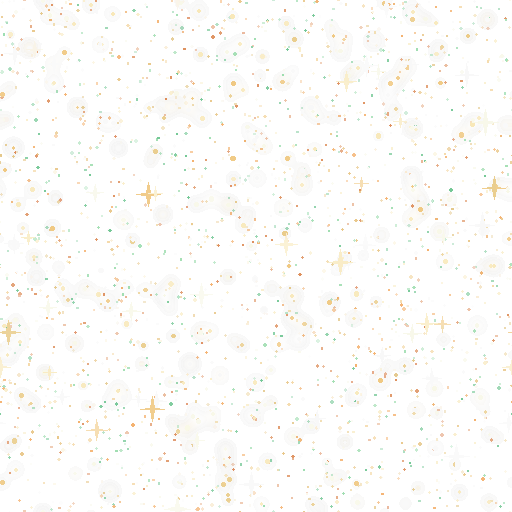
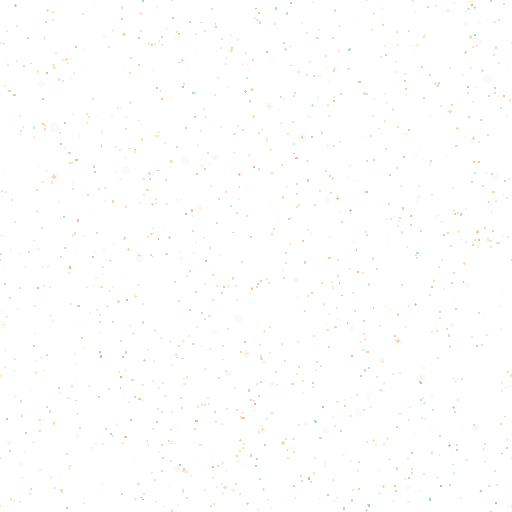
Add files via upload

diff --git a/js/app.js b/js/app.js
@@ -1,5 +1,5 @@
 // ====== Loane Pro ======
-const APP_VERSION = '3.3.0';
+const APP_VERSION = '3.4.0';
 
 const $ = sel => document.querySelector(sel);
 const view = $('#view');
@@ -36,11 +36,16 @@ $('#sheet-backdrop').addEventListener('click', closeSheet);
 
 // ====== Types de séances ======
 const KINDS = {
-  cours: { label: 'Cours', icon: '🎤', student: true, paid: true },
-  repetition: { label: 'Répétition', icon: '🎹', student: false, paid: false },
-  concert: { label: 'Concert', icon: '🎭', student: false, paid: true },
-  autre: { label: 'Autre', icon: '📌', student: false, paid: false }
+  cours: { label: 'Cours', icon: '🎤', student: true, paid: true, travail: true },
+  repetition: { label: 'Répétition', icon: '🎹', student: false, paid: false, travail: true },
+  concert: { label: 'Concert', icon: '🎭', student: false, paid: true, travail: true },
+  autre: { label: 'Autre (travail)', icon: '📌', student: false, paid: false, travail: true },
+  perso: { label: 'Perso (hors travail)', icon: '🏡', student: false, paid: false, travail: false }
 };
+const estTravail = l => (KINDS[l.kind || 'cours'] || {}).travail !== false;
+
+// Lieux possibles pour un cours
+const LIEUX = { ecole: "À l\u2019école", domicile: 'À domicile' };
 
 // ====== Réglages par défaut ======
 const DEFAULT_FORFAITS = [
@@ -280,15 +285,64 @@ function cloudBadge(etat) {
   if (etat === 'ok') setTimeout(() => { el.hidden = true; }, 2500);
 }
 
-// On enrobe les écritures de la base pour déclencher la sauvegarde
-['put', 'del', 'setSetting', 'importAll'].forEach(m => {
-  const orig = DB[m].bind(DB);
-  DB[m] = async function (...args) {
-    const r = await orig(...args);
+// ====== Annulation des 5 dernières actions ======
+const Undo = {
+  pile: [],
+  libelles: { students: 'élève', lessons: 'séance', payments: 'paiement', notes: 'note', invoices: 'document', library: 'morceau' },
+  ajouter(libelle, inverse) {
+    this.pile.push({ libelle, inverse });
+    if (this.pile.length > 5) this.pile.shift();
+    this.maj();
+  },
+  maj() {
+    const b = document.getElementById('topbar-undo');
+    if (b) { b.hidden = this.pile.length === 0; b.title = this.pile.length ? 'Annuler : ' + this.pile[this.pile.length - 1].libelle : ''; }
+  },
+  async annuler() {
+    const action = this.pile.pop();
+    if (!action) return;
+    try {
+      await action.inverse();
+      toast('Annulé : ' + action.libelle);
+    } catch (e) { toast('Annulation impossible'); }
+    this.maj();
+    Cloud.schedule();
+    refreshView();
+  }
+};
+
+// On enrobe les écritures de la base : sauvegarde cloud + mémorisation pour l'annulation
+(() => {
+  const brut = { put: DB.put.bind(DB), del: DB.del.bind(DB), get: DB.get.bind(DB), setSetting: DB.setSetting.bind(DB), importAll: DB.importAll.bind(DB) };
+  const sansHistorique = new Set(['settings']);
+
+  DB.put = async function (store, obj) {
+    let avant = null, existait = false;
+    if (!sansHistorique.has(store) && obj && obj.id) {
+      avant = await brut.get(store, obj.id);
+      existait = !!avant;
+    }
+    const r = await brut.put(store, obj);
+    if (!sansHistorique.has(store)) {
+      const quoi = Undo.libelles[store] || 'élément';
+      if (existait) Undo.ajouter('modification ' + quoi, () => brut.put(store, avant));
+      else Undo.ajouter('ajout ' + quoi, () => brut.del(store, r.id));
+    }
     Cloud.schedule();
     return r;
   };
-});
+
+  DB.del = async function (store, id) {
+    const avant = sansHistorique.has(store) ? null : await brut.get(store, id);
+    const r = await brut.del(store, id);
+    if (avant) Undo.ajouter('suppression ' + (Undo.libelles[store] || 'élément'), () => brut.put(store, avant));
+    Cloud.schedule();
+    return r;
+  };
+
+  DB.setSetting = async function (...a) { const r = await brut.setSetting(...a); Cloud.schedule(); return r; };
+  DB.importAll = async function (...a) { const r = await brut.importAll(...a); Cloud.schedule(); return r; };
+})();
 
 // ====== Utilitaires métier ======
 async function lessonsOf(studentId) {
@@ -360,6 +414,7 @@ function switchTab(tab) {
   $('#page-title').textContent = t.title;
   const act = $('#topbar-action');
   act.hidden = !t.action; act.onclick = t.action;
+  Undo.maj();
   t.render();
 }
 
@@ -405,11 +460,12 @@ function itemCard(it) {
       <div class="sub"><span class="gcal-dot">●</span> Google · toucher pour rattacher</div></div>
       <div class="chev">›</div></div>`;
   const l = it.lesson, k = KINDS[it.kind];
-  return `<div class="card tappable row" data-lesson="${l.id}">
+  return `<div class="swipe"><button class="swipe-del" data-del-lesson="${l.id}">Supprimer</button>
+    <div class="card tappable row swipe-item" data-lesson="${l.id}">
       <div class="lesson-time">${fmtTime(it.date)}</div>
       <div class="grow"><div class="title">${k.icon} ${esc(it.label)}</div>
-      <div class="sub">${esc(l.type || k.label)} · ${l.duration || 60} min ${l.paid === false ? '· <span style="color:var(--gold)">offert</span>' : ''} ${l.gcalEventId ? '<span class="gcal-dot">● Google</span>' : ''}</div></div>
-      <div class="chev">›</div></div>`;
+      <div class="sub">${esc(l.type || k.label)} · ${l.duration || 60} min${l.lieu === 'domicile' ? ' · à domicile' : ''} ${l.paid === false ? '· <span style="color:var(--gold)">offert</span>' : ''} ${l.gcalEventId ? '<span class="gcal-dot">● Google</span>' : ''}</div></div>
+      <div class="chev">›</div></div></div>`;
 }
 
 async function renderAgenda() {
@@ -472,6 +528,7 @@ async function renderAgenda() {
     try { gcalCache = await GC.pullEvents(); toast('Agenda synchronisé ✓'); } catch (e) { toast('Échec de la synchro'); }
     renderAgenda();
   };
+  activerGlissement(view);
   const conn = $('#btn-gc-connect'); if (conn) conn.onclick = () => GC.connect();
   const pastBtn = $('#past-import');
   if (pastBtn) pastBtn.onclick = () => sheetPastList(gPast);   // uniquement ceux qui ne sont pas encore rattachés
@@ -552,8 +609,51 @@ function viewMonth(items) {
   return html;
 }
 
+// Glissement latéral pour révéler le bouton Supprimer
+function activerGlissement(racine) {
+  racine.querySelectorAll('.swipe-item').forEach(el => {
+    if (el.dataset.swipeOn) return;
+    el.dataset.swipeOn = '1';
+    let x0 = 0, y0 = 0, dx = 0, actif = false;
+    el.addEventListener('touchstart', e => {
+      const t = e.touches[0]; x0 = t.clientX; y0 = t.clientY; dx = 0; actif = false;
+      // on referme les autres
+      racine.querySelectorAll('.swipe-item.ouvert').forEach(o => { if (o !== el) { o.classList.remove('ouvert'); o.style.transform = ''; } });
+    }, { passive: true });
+    el.addEventListener('touchmove', e => {
+      const t = e.touches[0];
+      const ex = t.clientX - x0, ey = t.clientY - y0;
+      if (!actif && Math.abs(ex) > 12 && Math.abs(ex) > Math.abs(ey) * 1.6) actif = true;
+      if (!actif) return;
+      dx = Math.max(-96, Math.min(0, ex + (el.classList.contains('ouvert') ? -96 : 0)));
+      el.style.transform = `translateX(${dx}px)`;
+    }, { passive: true });
+    el.addEventListener('touchend', () => {
+      if (!actif) return;
+      const ouvert = dx < -48;
+      el.classList.toggle('ouvert', ouvert);
+      el.style.transform = ouvert ? 'translateX(-96px)' : '';
+      if (ouvert) el.dataset.ignoreClic = '1';
+      setTimeout(() => delete el.dataset.ignoreClic, 60);
+    });
+  });
+}
+
 // Délégation : fiable même après re-rendu
-view.addEventListener('click', e => {
+view.addEventListener('click', async e => {
+  const supp = e.target.closest('[data-del-lesson]');
+  if (supp) {
+    const l = await DB.get('lessons', supp.dataset.delLesson);
+    await DB.del('lessons', supp.dataset.delLesson);
+    toast('Séance supprimée · touche ↺ pour annuler');
+    refreshView();
+    return;
+  }
+  const item = e.target.closest('.swipe-item');
+  if (item && (item.dataset.ignoreClic || item.classList.contains('ouvert'))) {
+    item.classList.remove('ouvert'); item.style.transform = '';
+    return;   // on referme au lieu d'ouvrir la fiche
+  }
   const gEl = e.target.closest('[data-gcal]');
   if (gEl) {
     const ev = gcalCache.find(x => x.id === gEl.dataset.gcal);
@@ -656,6 +756,8 @@ async function sheetLesson(id, presetStudent, presetKind) {
         <select id="f-student">${students.map(s => `<option value="${s.id}" ${(l && l.studentId === s.id) || presetStudent === s.id ? 'selected' : ''}>${esc(s.name)}</option>`).join('')}</select></label>
       <label class="field"><span>Type de cours</span>
         <select id="f-type">${courseTypes.map(t => `<option ${l && l.type === t ? 'selected' : ''}>${esc(t)}</option>`).join('')}</select></label>
+      <label class="field" id="lieu-box"><span>Lieu du cours</span>
+        <select id="f-lieu">${Object.entries(LIEUX).map(([v, t]) => `<option value="${v}" ${l && l.lieu === v ? 'selected' : ''}>${t}</option>`).join('')}</select></label>
     </div>
     <div id="title-box" hidden><label class="field"><span>Intitulé</span><input id="f-title" value="${esc(l ? l.title : '')}" placeholder="Répétition, concert…"></label></div>
     <div class="field-row">
@@ -673,11 +775,23 @@ async function sheetLesson(id, presetStudent, presetKind) {
     <button class="btn" id="f-save">${l ? 'Enregistrer' : 'Ajouter'}</button>
     ${l ? '<button class="btn danger" id="f-del">Supprimer</button>' : ''}
   `);
+  // le lieu suit la préférence de l'élève, sauf en collectif (toujours à l'école)
+  const majLieu = async () => {
+    const collectif = /collectif/i.test($('#f-type').value || '');
+    $('#lieu-box').style.display = ($('#f-kind').value === 'cours' && !collectif) ? '' : 'none';
+    if (collectif) { $('#f-lieu').value = 'ecole'; return; }
+    if (!l) {
+      const el = await DB.get('students', $('#f-student').value);
+      if (el && el.lieu) $('#f-lieu').value = el.lieu;
+    }
+  };
+
   const refresh = () => {
     const k = $('#f-kind').value;
     const payant = $('#f-paid').checked;
     $('#student-box').hidden = k !== 'cours';
     $('#title-box').hidden = k === 'cours';
+    majLieu();
     // le cachet ne concerne que les séances payantes hors cours (concert, prestation…)
     $('#fee-box').style.display = (payant && k !== 'cours') ? '' : 'none';
     $('#paid-hint').textContent = payant
@@ -686,6 +800,8 @@ async function sheetLesson(id, presetStudent, presetKind) {
   };
   $('#f-kind').onchange = refresh;
   $('#f-paid').onchange = refresh;
+  $('#f-type').onchange = majLieu;
+  $('#f-student').onchange = majLieu;
   refresh();
 
   $('#f-save').onclick = async () => {
@@ -698,6 +814,7 @@ async function sheetLesson(id, presetStudent, presetKind) {
     item.date = new Date($('#f-date').value + 'T' + $('#f-time').value).toISOString();
     item.type = k === 'cours' ? $('#f-type').value : KINDS[k].label;
     item.duration = +$('#f-dur').value || 60;
+    item.lieu = k === 'cours' ? (/collectif/i.test($('#f-type').value) ? 'ecole' : $('#f-lieu').value) : '';
     item.paid = $('#f-paid').checked;
     item.fee = (item.paid && k !== 'cours') ? (+$('#f-fee').value || 0) : 0;
     item.note = $('#f-note').value;
@@ -713,7 +830,8 @@ async function sheetLesson(id, presetStudent, presetKind) {
 // ====== HEURES EFFECTUÉES ======
 let hoursRange = 'month';
 async function renderHours() {
-  const all = (await DB.all('lessons')).filter(l => new Date(l.date) <= Date.now())
+  const all = (await DB.all('lessons'))
+    .filter(l => new Date(l.date) <= Date.now() && estTravail(l))   // le perso ne compte pas
     .sort((a, b) => new Date(b.date) - new Date(a.date));
   const students = Object.fromEntries((await DB.all('students')).map(s => [s.id, s]));
 
@@ -757,7 +875,7 @@ async function renderHours() {
 
   if (Object.keys(byKind).length) {
     html += `<div class="card"><div class="sub" style="margin-bottom:6px">Répartition · total ${fmtHours(mins(inRange))}</div>
-      ${Object.keys(KINDS).map(k => `<div class="row" style="padding:3px 0">
+      ${Object.keys(KINDS).filter(k => KINDS[k].travail !== false).map(k => `<div class="row" style="padding:3px 0">
         <div class="grow"${byKind[k] ? '' : ' style="opacity:.5"'}>${KINDS[k].icon} ${KINDS[k].label}</div>
         <div class="title"${byKind[k] ? '' : ' style="opacity:.5"'}>${fmtHours(byKind[k] || 0)}</div></div>`).join('')}
       ${offertMin ? `<hr class="staff"><div class="row"><div class="grow">Dont séances offertes</div><div class="title" style="color:var(--gold)">${fmtHours(offertMin)}</div></div>` : ''}
@@ -785,15 +903,17 @@ async function renderHours() {
       if (key !== curDay) { curDay = key; html += `<div class="day-head">${fmtDate(l.date)}</div>`; }
       const k = KINDS[l.kind || 'cours'];
       const s = students[l.studentId];
-      html += `<div class="card tappable row" data-lesson="${l.id}">
+      html += `<div class="swipe"><button class="swipe-del" data-del-lesson="${l.id}">Supprimer</button>
+        <div class="card tappable row swipe-item" data-lesson="${l.id}">
         <div class="lesson-time">${fmtTime(l.date)}</div>
         <div class="grow"><div class="title">${k.icon} ${esc(s ? s.name : (l.title || k.label))}</div>
         <div class="sub">${fmtHours(l.duration || 60)}${l.fee ? ' · ' + fmtMoney(l.fee) : ''}${l.paid === false ? ' · offert' : ''}</div></div>
-        <div class="chev">›</div></div>`;
+        <div class="chev">›</div></div></div>`;
     }
   }
   view.innerHTML = html;
   view.querySelectorAll('[data-range]').forEach(b => b.onclick = () => { hoursRange = b.dataset.range; renderHours(); });
+  activerGlissement(view);
   $('#add-act').onclick = () => sheetLesson(null, null, 'repetition');
   const orph = $('#orphelins'); if (orph) orph.onclick = () => sheetPastList(orphelins);
 }
@@ -887,6 +1007,7 @@ async function renderStudentDetail(id) {
     <h2 class="section">Suivi pédagogique</h2>
     <div class="card">
       ${s.level ? `<div style="margin-bottom:8px"><span class="tag g">Niveau</span> ${esc(s.level)}</div>` : ''}
+      <div style="margin-bottom:8px"><span class="tag">Lieu habituel</span> ${LIEUX[s.lieu || 'ecole']}</div>
       ${descriptionOf(s) ? `<p style="white-space:pre-wrap">${esc(descriptionOf(s))}</p>` : ''}
       ${!s.level && !descriptionOf(s) ? '<div class="sub">À renseigner via « Modifier le profil ».</div>' : ''}
     </div>
@@ -955,7 +1076,11 @@ async function sheetStudent(id) {
       <label class="field"><span>Téléphone</span><input id="f-phone" type="tel" value="${esc(s.phone || '')}"></label>
       <label class="field"><span>E-mail</span><input id="f-email" type="email" value="${esc(s.email || '')}"></label>
     </div>
-    <label class="field"><span>Niveau</span><input id="f-level" value="${esc(s.level || '')}"></label>
+    <div class="field-row">
+      <label class="field"><span>Niveau</span><input id="f-level" value="${esc(s.level || '')}"></label>
+      <label class="field"><span>Lieu habituel</span>
+        <select id="f-lieu">${Object.entries(LIEUX).map(([v, t]) => `<option value="${v}" ${(s.lieu || 'ecole') === v ? 'selected' : ''}>${t}</option>`).join('')}</select></label>
+    </div>
     <label class="field"><span>Description</span><textarea id="f-desc" style="min-height:130px" placeholder="Parcours, objectifs, remarques…">${esc(descriptionOf(s))}</textarea></label>
     <button class="btn" id="f-save">${id ? 'Enregistrer' : 'Créer le profil'}</button>
     ${id ? '<button class="btn danger" id="f-del">Supprimer cet élève</button>' : ''}
@@ -971,7 +1096,7 @@ async function sheetStudent(id) {
     const name = $('#f-name').value.trim();
     if (!name) { toast('Le nom est obligatoire'); return; }
     const obj = { ...(s.id ? s : {}), name, photo, phone: $('#f-phone').value, email: $('#f-email').value,
-                  level: $('#f-level').value, description: $('#f-desc').value };
+                  level: $('#f-level').value, lieu: $('#f-lieu').value, description: $('#f-desc').value };
     delete obj.strengths; delete obj.difficulties;      // anciens champs, désormais fusionnés
     const saved = await DB.put('students', obj);
     closeSheet(); toast('Profil enregistré ✓'); renderStudentDetail(saved.id);
@@ -1735,6 +1860,7 @@ function sheetSetCode() {
   CURRENCY = await DB.getSetting('currency', 'XPF');
   GC.handleCallback();
   Lock.init();
+  $('#topbar-undo').onclick = () => Undo.annuler();
   switchTab('agenda');
   Cloud.auto();
 

diff --git a/css/app.css b/css/app.css
@@ -471,3 +471,24 @@ main > .sub{
   border-radius:12px;padding:11px 15px;margin-bottom:11px;backdrop-filter:blur(12px);
 }
 .btn.secondary,.btn.danger,.btn.ghost{backdrop-filter:blur(14px);-webkit-backdrop-filter:blur(14px)}
+
+/* ===== Glissement latéral pour supprimer ===== */
+.swipe{position:relative;overflow:hidden;border-radius:var(--radius);margin-bottom:11px}
+.swipe .card{margin-bottom:0}
+.swipe-del{
+  position:absolute;top:0;right:0;bottom:0;width:96px;border:none;
+  background:linear-gradient(135deg,#C4503A,#9B3524);color:#FFF1EC;
+  font-family:var(--body);font-size:.86rem;font-weight:500;letter-spacing:.03em;
+  border-radius:var(--radius);
+}
+.swipe-item{
+  position:relative;transition:transform .22s cubic-bezier(.2,.85,.3,1);
+  will-change:transform;touch-action:pan-y;
+}
+
+/* jours centrés dans l'agenda */
+.day-head{
+  display:flex;width:fit-content;max-width:100%;
+  justify-content:center;text-align:center;
+  margin:22px auto 10px;
+}

diff --git a/sw.js b/sw.js
@@ -1,7 +1,7 @@
 // Service worker — Loane Pro
 // Stratégie "réseau d'abord" : l'app se met à jour dès qu'il y a du réseau,
 // et reste utilisable hors ligne grâce au cache.
-const CACHE = 'loane-pro-3.3.0';
+const CACHE = 'loane-pro-3.4.0';
 const ASSETS = [
   './', './index.html', './css/app.css',
   './js/config.js', './js/db.js', './js/app.js',

diff --git a/index.html b/index.html
@@ -45,6 +45,7 @@
   <h1 id="page-title">Agenda</h1>
   <div class="topbar-right">
     <span id="cloud-state" class="cloud-state" hidden></span>
+    <button id="topbar-undo" class="btn-icon" hidden title="Annuler">↺</button>
     <button id="topbar-action" class="btn-icon" hidden>＋</button>
   </div>
 </header>